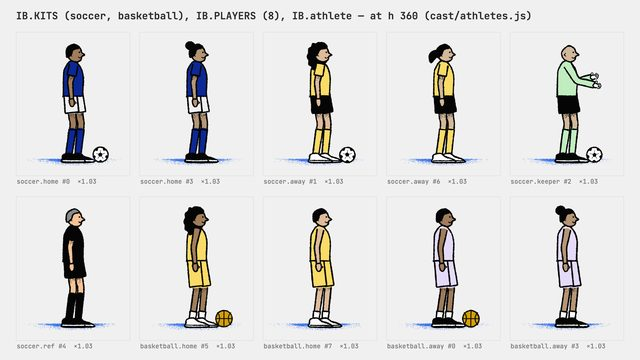
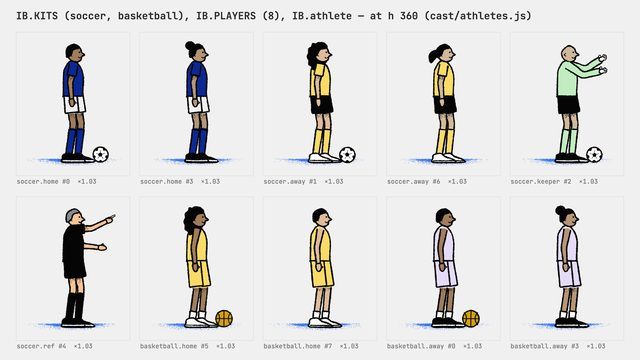
feat: 손발을 각도와 길이로 놓는 IB.posed, 경기장 배경과 카메라
축구 장면을 짓다 보니 손발 목표가 팔다리 길이를 넘어 IK가 손발을 떼어 내는 실수(지난 라운드 검토의 단골)를 매번 계산으로 피하고 있었다. 그래서 리그 쪽에서 막는다.

- figure.js: IB.joints(포즈의 어깨·골반 뿌리 위치를 그리지 않고 계산), IB.polar, IB.posed(손발을 어깨·골반에서의 각도와 길이로 주면 팔 0.285 h, 다리 0.51 h 안으로 묶는다). 각도는 인물이 바라보는 방향 기준이라 dir -1에도 같은 숫자를 쓴다. 기존 함수는 바꾸지 않았다.
- sports.js: IB.adBoards(빈 광고판, 실제 브랜드 금지 규칙), IB.pitchside(관중·광고판·잔디를 한 번에), IB.cornerFlag, IB.camera(크롭 창 키 사이 smoothstep). 카메라 보간을 장면마다 쓰던 것을 한곳으로 모았다.
- 견본 parts/props/sports-pitch.html, athletes.html의 심판·골키퍼 손을 posed/joints로.

Claude-Session: https://claude.ai/code/session_01SxpfC2T1LyEk5ytvqY9P1D

Changed region(s): [[0.0938, 0.5806, 0.1875, 0.7639], [0.875, 0.1528, 0.9688, 0.2444]]

diff --git a/IBM/kit/props/sports.js b/IBM/kit/props/sports.js
@@ -1,4 +1,4 @@
-/* props/sports.js — the ball games: the flight of a ball under gravity with its bounces and roll (IB.flight, IB.aim), the balls (IB.soccerBall, IB.basketball, IB.ballTrail), a football goal and a basketball hoop seen from the side with a hint of depth (IB.soccerGoal, IB.hoop), the crowd in the stands (IB.stands) and a scoreboard of drawn segment digits (IB.scoreboard, IB.segDigits). Sizes are for a wide shot where a 1.8 m player is 360 px tall (200 px a metre); opts.s scales a part from there, and line widths stay in screen px. Needs ink.js. */
+/* props/sports.js — the ball games: the flight of a ball under gravity with its bounces and roll (IB.flight, IB.aim), the balls (IB.soccerBall, IB.basketball, IB.ballTrail), a football goal and a basketball hoop seen from the side with a hint of depth (IB.soccerGoal, IB.hoop), the crowd in the stands and the hoarding in front of them (IB.stands, IB.adBoards, both with the grass in IB.pitchside), the corner flag (IB.cornerFlag), a camera that eases between crop windows (IB.camera) and a scoreboard of drawn segment digits (IB.scoreboard, IB.segDigits). Sizes are for a wide shot where a 1.8 m player is 360 px tall (200 px a metre); opts.s scales a part from there, and line widths stay in screen px. Needs ink.js. */
 (function (g) {
   const IB = g.IB, C = IB.C, MG = g.MG;
   const MESH = '#9a9a9a';   // net strings: lighter than ink so the players and the ball read over them
@@ -174,6 +174,36 @@
         IB.oval(ctx, x, by - 12 * s * k - hr, hr, hr, { fill: skin, w: lw, seed: seed + Math.round(x) + row, n: 9 });
       }
     }
+  };
+
+  /* adBoards(ctx, [x0, x1], floor, opts) — the low hoarding round a pitch, between the play and the stands: a row of blank panels (no brands: the reference's rule for real logos and copy) alternating white and pale grey, `ht` px tall (60), standing on a line `back` px behind the floor line (the far touchline). opts: ht, w (panel width 240), back (150), seed. */
+  IB.adBoards = (ctx, [x0, x1], floor, o = {}) => {
+    const ht = o.ht || 60, w = o.w || 240, y = floor - (o.back == null ? 150 : o.back), lw = o.lw || 2.6, seed = o.seed || 750;
+    for (let x = x0, i = 0; x < x1; x += w, i++) IB.ink(ctx, [[x, y - ht], [x + w, y - ht], [x + w, y], [x, y]], { closed: true, smooth: false, fill: i % 2 ? '#e2e2e2' : C.paper, w: lw, seed: seed + i });
+    return y - ht;
+  };
+
+  /* cornerFlag(ctx, [x, floor], opts) — the corner post (1.5 m) and its flag, which flaps in two drawings: pass `wave` 0 | 1 and alternate it on twos while there is wind, hold it for a still shot. opts: s, fill (the flag, C.yellow), wave, seed. */
+  IB.cornerFlag = (ctx, [x, floor], o = {}) => {
+    const s = o.s || 1, M = 200 * s, top = floor - 1.5 * M, lw = o.lw || 3, w = o.wave ? 1 : 0, seed = o.seed || 780;
+    IB.tube(ctx, [[x, floor], [x, top]], { w: 0.035 * M, edge: lw * 0.8, fill: C.paper, seed });
+    const fw = 0.4 * M, fh = 0.3 * M, pts = w ? [[x, top], [x + fw * 0.5, top + fh * 0.12], [x + fw, top - fh * 0.05], [x + fw * 0.95, top + fh * 0.9], [x + fw * 0.5, top + fh * 1.05], [x, top + fh]] : [[x, top], [x + fw * 0.45, top - fh * 0.1], [x + fw, top + fh * 0.08], [x + fw * 0.98, top + fh * 1.02], [x + fw * 0.45, top + fh * 0.88], [x, top + fh]];
+    IB.ink(ctx, pts, { closed: true, fill: o.fill || C.yellow, w: lw * 0.8, seed: seed + 1 + w });
+  };
+
+  /* pitchside(ctx, [x0, x1], floor, opts) — the backdrop of a football shot in one call: the crowd (IB.stands, top at floor - 470), the hoarding (IB.adBoards, 160 px back) and the green chalk smear of the grass along the floor line. opts: cheer, colors (the two teams), seed. */
+  IB.pitchside = (ctx, [x0, x1], floor, o = {}) => {
+    IB.stands(ctx, [x0, x1], floor - 470, { colors: o.colors || [C.navy, C.yellow], share: 0.35, cheer: o.cheer || 0, s: 0.9, seed: o.seed || 710 });
+    IB.adBoards(ctx, [x0 - 40, x1 + 40], floor, { back: 160, ht: 56 });
+    IB.smear(ctx, (x0 + x1) / 2, floor - 6, x1 - x0 + 200, { h: 16, color: C.green, seed: 9 });
+  };
+
+  /* camera(keys, f) — the crop window [x, y, w] (for IB.crop) at frame f, from [frame, [x, y, w]] keys: held before the first and after the last, eased with a smoothstep between two keys. Call it with the frame of the drawing (on twos) so the camera moves on twos with the players. */
+  IB.camera = (keys, f) => {
+    let i = 0; while (i < keys.length - 1 && f >= keys[i + 1][0]) i++;
+    if (i === keys.length - 1 || f <= keys[0][0]) return keys[f <= keys[0][0] ? 0 : i][1];
+    const [f0, a] = keys[i], [f1, b] = keys[i + 1], u = (f - f0) / (f1 - f0), k = u * u * (3 - 2 * u);
+    return a.map((v, j) => v + (b[j] - v) * k);
   };
 
   /* segDigits(ctx, [x, y], text, opts) — numbers drawn as seven-segment strokes in ink (a scoreboard is a drawn object here, not typeset copy): digits, ':' and '.'; [x, y] is the top left, each digit `size` px tall and 0.55 of that wide. Returns the width drawn. opts: size (40), color, lw, seed. */

diff --git a/IBM/parts/props/sports.html b/IBM/parts/props/sports.html
@@ -9,7 +9,7 @@
 <script src="../../kit/props/sports.js"></script>
 <script src="../sample.js"></script>
 <script>
-/* 소품 견본: 공 경기의 부품 IB.soccerBall, IB.basketball, IB.ballTrail, IB.flight, IB.aim, IB.soccerGoal, IB.hoop, IB.stands, IB.scoreboard, IB.segDigits. 공은 중력으로 난다: IB.aim이 도착 지점과 시간에서 발사 속도를 내고, IB.flight가 그 뒤의 포물선, 바운드(세로 속도 e배, 가로 속도 mu배), 구르다 멈추기를 시각 t 하나로 계산한다(키 1.8 m 선수가 360 px인 와이드에서 1 m = 200 px, 중력 1962 px/s²). 공은 그린 물건이라 2프레임 단위로 놓고, 빠를 때만 뒤에 속도선 세 줄이 붙는다. 골대는 터치라인에서 본 옆모습에 깊이를 조금 주어 가까운 기둥이 바닥선 아래, 먼 기둥이 위에 서고, 공이 그물에 박히면 뒷그물이 그 점을 중심으로 불룩해졌다 돌아온다. 농구 골대는 백보드를 거의 옆에서 보고 림을 아래에서 본 납작한 타원으로 그려, 'back' 층과 'front' 층 사이에 공을 넣으면 림을 통과한다. 그물은 공이 빠지면 여섯 장에 늘어났다 채찍처럼 돌아온다. 관중은 두 그림(1, 2)을 2프레임마다 바꾸면 환호하고 'up'이면 모두 일어선다. 점수판 숫자는 활자가 아니라 붓펜으로 그은 7획 숫자다. */
+/* 소품 견본: 공 경기의 부품 IB.soccerBall, IB.basketball, IB.ballTrail, IB.flight, IB.aim, IB.soccerGoal, IB.hoop, IB.stands, IB.adBoards, IB.scoreboard, IB.segDigits. 공은 중력으로 난다: IB.aim이 도착 지점과 시간에서 발사 속도를 내고, IB.flight가 그 뒤의 포물선, 바운드(세로 속도 e배, 가로 속도 mu배), 구르다 멈추기를 시각 t 하나로 계산한다(키 1.8 m 선수가 360 px인 와이드에서 1 m = 200 px, 중력 1962 px/s²). 공은 그린 물건이라 2프레임 단위로 놓고, 빠를 때만 뒤에 속도선 세 줄이 붙는다. 골대는 터치라인에서 본 옆모습에 깊이를 조금 주어 가까운 기둥이 바닥선 아래, 먼 기둥이 위에 서고, 공이 그물에 박히면 뒷그물이 그 점을 중심으로 불룩해졌다 돌아온다. 농구 골대는 백보드를 거의 옆에서 보고 림을 아래에서 본 납작한 타원으로 그려, 'back' 층과 'front' 층 사이에 공을 넣으면 림을 통과한다. 그물은 공이 빠지면 여섯 장에 늘어났다 채찍처럼 돌아온다. 관중은 두 그림(1, 2)을 2프레임마다 바꾸면 환호하고 'up'이면 모두 일어선다. 점수판 숫자는 활자가 아니라 붓펜으로 그은 7획 숫자다. */
 const C = IB.C, G = 1962;
 MG.scene({
   title: 'props / sports',
@@ -60,7 +60,8 @@ MG.scene({
     SAMPLE.cell(ctx, c[4], win(4, [960, 700]), () => {
       const cheer = k % 24 < 8 ? 0 : k % 24 < 18 ? 1 + (k % 2) : 'up';
       IB.stands(ctx, [700, 1220], 470, { colors: [C.navy, C.yellow], cheer, s: 0.8, seed: 60 });
-    }, "IB.stands({ cheer: 0 | 1 | 2 | 'up', colors })");
+      IB.adBoards(ctx, [680, 1240], 800, { back: 0, ht: 50 });
+    }, "IB.stands({ cheer: 0 | 1 | 2 | 'up', colors }), IB.adBoards");
 
     // the scoreboard counting down on ones, as a game clock does
     SAMPLE.cell(ctx, c[5], win(5, [960, 700]), () => {

diff --git a/IBM/parts/cast/athletes.html b/IBM/parts/cast/athletes.html
@@ -11,7 +11,7 @@
 <script src="../../kit/props/sports.js"></script>
 <script src="../sample.js"></script>
 <script>
-/* 출연진 견본: 공 경기 선수 IB.KITS(팀 유니폼), IB.PLAYERS(얼굴 여덟), IB.athlete(입히기). 한 팀은 한 색이다. 축구는 색 셔츠에 반바지, 무릎 아래까지 끌어올린 양말(리그의 look.socks)이고 골키퍼는 아무 필드 선수도 입지 않는 민트 긴소매에 흰 장갑(look.gloves)이다. 농구는 민소매(topKind 'tank')에 무릎까지 오는 반바지(shortsLen 0.9), 발목의 흰 양말(sockHi 0.3)이다. 와이드 샷 키 360 px(1 m = 200 px)에 공을 같은 축척으로 함께 세웠다. */
+/* 출연진 견본: 공 경기 선수 IB.KITS(팀 유니폼), IB.PLAYERS(얼굴 여덟), IB.athlete(입히기). 한 팀은 한 색이다. 축구는 색 셔츠에 반바지, 무릎 아래까지 끌어올린 양말(리그의 look.socks)이고 골키퍼는 아무 필드 선수도 입지 않는 민트 긴소매에 흰 장갑(look.gloves)이다. 농구는 민소매(topKind 'tank')에 무릎까지 오는 반바지(shortsLen 0.9), 발목의 흰 양말(sockHi 0.3)이다. 와이드 샷 키 360 px(1 m = 200 px)에 공을 같은 축척으로 함께 세웠다. 심판의 가리키는 손은 IB.posed로(손을 어깨에서의 각도와 길이로 주면 팔 길이 안에 묶인다), 골키퍼의 두 손은 IB.joints가 준 어깨에서 IB.polar로 각도와 길이(팔 길이 0.29 h 안)를 주어 놓았다: 손발을 이렇게 놓으면 지나침 그림에서도 IK가 손을 목표에서 떼지 않는다. */
 const C = IB.C, FLOOR = 900, H = 360;
 const ROW = [['soccer', 'home', 0], ['soccer', 'home', 3], ['soccer', 'away', 1], ['soccer', 'away', 6], ['soccer', 'keeper', 2], ['soccer', 'ref', 4], ['basketball', 'home', 5], ['basketball', 'home', 7], ['basketball', 'away', 0], ['basketball', 'away', 3]];
 MG.scene({
@@ -27,8 +27,9 @@ MG.scene({
       SAMPLE.cell(ctx, c[n], SAMPLE.window([960, FLOOR], (c[n][2] * 420) / c[n][3], 420), () => {
         IB.smear(ctx, 960, FLOOR - 9, 220, { h: 14, seed: 9 + n });
         const p = IB.stand(960, FLOOR, who);
-        if (side === 'keeper') p.hands = [[960 + 0.2 * H, p.hip[1] - 0.12 * H], [960 + 0.22 * H, p.hip[1] - 0.06 * H]], p.hand = ['open', 'open'];
-        IB.figure(ctx, p, who);
+        if (side === 'keeper') { const j = IB.joints(p, who); p.hands = [IB.polar(j.sh, -0.15, 0.27 * H), IB.polar(j.sh, 0.2, 0.27 * H)]; p.hand = ['open', 'open']; }   // hands placed from the shoulder within the arm's reach
+        const q = side === 'ref' ? IB.posed(who, { ...p, hands: [{ a: 0.6, l: 0.26 }, { a: -0.25, l: 0.285 }], hand: ['relax', 'point'] }) : p;   // the referee points: hands given as reach from the shoulder
+        IB.figure(ctx, q, who);
         if (sport === 'soccer' && n % 2 === 0) IB.soccerBall(ctx, [1040, FLOOR - 22], { seed: 30 + n });
         if (sport === 'basketball' && n % 2 === 0) IB.basketball(ctx, [1040, FLOOR - 24], { seed: 40 + n });
       }, `${sport}.${side} #${i}`);

diff --git a/IBM/kit/figure.js b/IBM/kit/figure.js
@@ -229,6 +229,24 @@
     return { hip, sh, headAt, knees: legs.map((l) => l.k), elbows: arms.map((a) => a.el), feet: legs.map((l) => l.e), hands: arms.map((a) => a.e), drag: [-vx * 0.5, -vy * 0.5] };
   };
 
+  /* joints(pose, look) — where IB.figure will put the shoulder and the two hip roots of a pose, without drawing it: { sh, roots: [far, near], arm, leg } with the arm's and the leg's full reach in px. A scene that places hands and feet by angle and length from these (IB.polar) cannot ask the IK for more than the limb has, which is how an overshoot drawing loses its hand. */
+  IB.joints = (pose, look) => {
+    const h = look.h, d = look.dir || 1, lean = pose.lean || 0, sx = Math.sin(lean) * d, sy = -Math.cos(lean), fx = Math.cos(lean) * d, fy = Math.sin(lean);
+    const at = (u, f) => [pose.hip[0] + sx * u * h + fx * f * h, pose.hip[1] + sy * u * h + fy * f * h];
+    return { sh: at(F.torso - 0.012, 0.004), roots: [at(0, 0.024), at(0, -0.024)], arm: (F.upper + F.fore) * h, leg: (F.thigh + F.shin) * h };
+  };
+  /* polar(from, ang, len) — the point len px from `from` at angle ang (rad, 0 = +x, +y down). */
+  IB.polar = (p, ang, len) => [p[0] + Math.cos(ang) * len, p[1] + Math.sin(ang) * len];
+
+  /* posed(look, o) — a pose built from the body out: o is a pose ({ hip, lean, nod, hand, face, ... }) whose feet and hands may be given as reach instead of points. A foot { a, l, pitch } sits l x h from its hip root at angle a, a hand { a, l } l x h from the shoulder; a is measured as the figure faces (0 forward, -π/2 straight up, π/2 straight down, π back) so the same numbers work for dir 1 and -1, and l is held inside the limb (0.51 h a leg, 0.285 h an arm) so the IK never has to pull a hand or foot off its mark. A point [x, y(, pitch)] is kept as given (a planted foot). Feet and hands are far side first. */
+  IB.posed = (look, o) => {
+    const d = look.dir || 1, h = look.h, p = { lean: 0, nod: 0, ...o, feet: [], hands: [[0, 0], [0, 0]] }, j = IB.joints(p, look);
+    const ang = (a) => (d === 1 ? a : Math.PI - a);
+    p.feet = o.feet.map((f, i) => (Array.isArray(f) ? f : [...IB.polar(j.roots[i], ang(f.a), Math.min(f.l, 0.51) * h), f.pitch || 0]));
+    p.hands = o.hands.map((w) => (Array.isArray(w) ? w : IB.polar(j.sh, ang(w.a), Math.min(w.l, 0.285) * h)));
+    return p;
+  };
+
   /* stand(x, floor, look) — the neutral pose of a figure standing at x on the floor line: feet together, arms hanging. Every other pose is this with a few joints moved. */
   IB.stand = (x, floor, look) => {
     const h = look.h, d = look.dir || 1, hy = floor - (F.ankle + F.shin + F.thigh) * h + 0.004 * h;

diff --git a/IBM/parts/props/sports-pitch.html b/IBM/parts/props/sports-pitch.html
@@ -1,0 +1,28 @@
+<!doctype html>
+<meta charset="utf-8">
+<title>props / sports-pitch</title>
+<link rel="stylesheet" href="../../../core/base.css">
+<script src="../../../core/motion.js"></script>
+<script src="../../../core/stage.js"></script>
+<script src="../../kit/ink.js"></script>
+<script src="../../kit/time.js"></script>
+<script src="../../kit/props/sports.js"></script>
+<script src="../sample.js"></script>
+<script>
+/* 소품 견본: 축구 장면의 배경 IB.pitchside(관중석, 빈 광고판, 초록 분필 잔디를 한 번에)와 코너 플래그 IB.cornerFlag(두 그림을 2프레임마다 바꾸면 바람에 펄럭인다), 그것을 따라가는 카메라 IB.camera. 카메라는 [프레임, [x, y, w]] 키 사이를 smoothstep으로 옮기는 크롭 창이고(IB.crop에 넘긴다), 선수와 같은 2프레임 격자의 프레임으로 부르면 카메라도 2프레임 단위로 움직인다. 여기서는 1100 px 창(1.75배)에서 0.5초 동안 오른쪽으로 팬했다가, 1540 px 창으로 물러난다: 페널티킥 장면이 키커에서 골키퍼로 공을 따라가는 그 이동이다. */
+const KEYS = [[0, [40, 400, 1100]], [16, [40, 400, 1100]], [28, [820, 400, 1100]], [52, [820, 400, 1100]], [68, [380, 222, 1540]], [96, [380, 222, 1540]]];
+MG.scene({
+  title: 'props / sports-pitch',
+  duration: 4, ref: null, fps: 24, loop: true,
+  setup: (stage) => MG.canvas(stage),
+  render(t, ctx) {
+    IB.bg(ctx);
+    const f = IB.frame(IB.twos(t)), cam = IB.camera(KEYS, f);
+    IB.crop(ctx, cam);
+    IB.pitchside(ctx, [-20, 2100], 900, { cheer: f >= 52 ? 1 + (f / 2) % 2 : 0 });
+    IB.cornerFlag(ctx, [1500, 905], { s: 0.7, wave: (f / 2) % 2 });
+    ctx.setTransform(1, 0, 0, 1, 0, 0);
+    SAMPLE.caption(ctx, `IB.pitchside(ctx, [x0, x1], floor, { cheer }) under IB.crop(ctx, IB.camera(keys, f)) — window [${cam.map((v) => Math.round(v)).join(', ')}]`);
+  },
+});
+</script>
